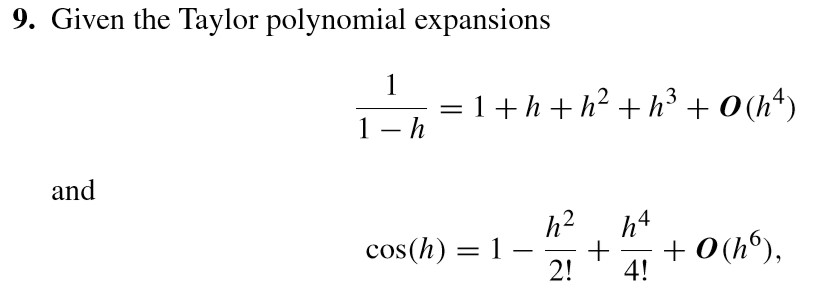
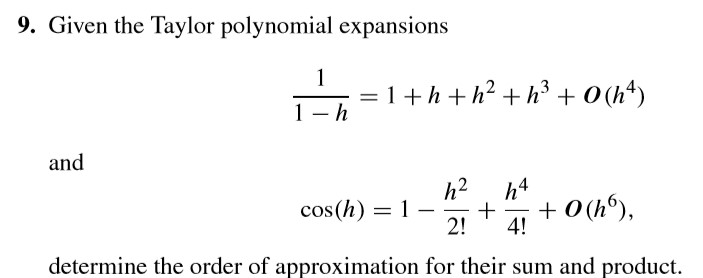
1. 更新了图源 2. 重画了表格

diff --git a/note/数值计算方法/2019.9.2/note.md b/note/数值计算方法/2019.9.2/note.md
@@ -60,12 +60,12 @@ $$
 
 具体
 
-|题目|图片|
-|:-:|:-:|
-|P13 14|![P13.14](./images/13.14.jpg)|
-|P37 1|![P37.1](./images/37.1.jpg)|
-|P37 3|![P37.3](./images/37.3.jpg)|
-|P37 9|![P37.9](./images/37.9.jpg)|
+|页码|题目|图片|
+|:-:|:-:|:-:|
+|P13|14|![P13.14](./images/13.14.jpg)|
+|P37|1|![P37.1](./images/37.1.jpg)|
+||3|![P37.3](./images/37.3.jpg)|
+||9|![P37.9](./images/37.9.jpg)|
 
 > 考试范围  
 >
